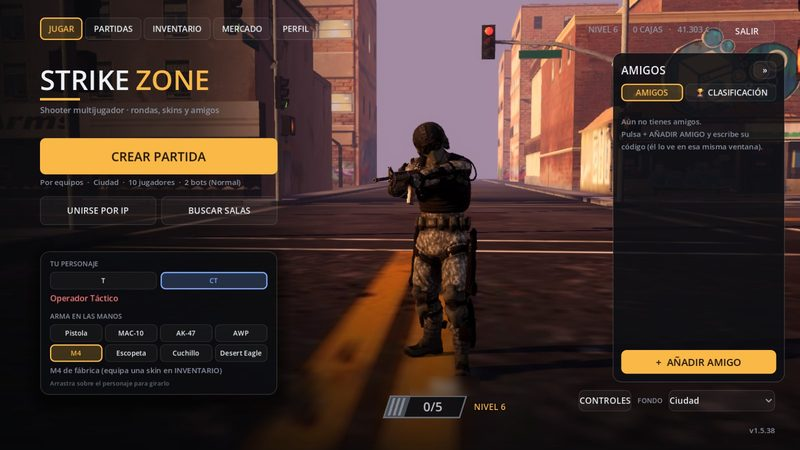
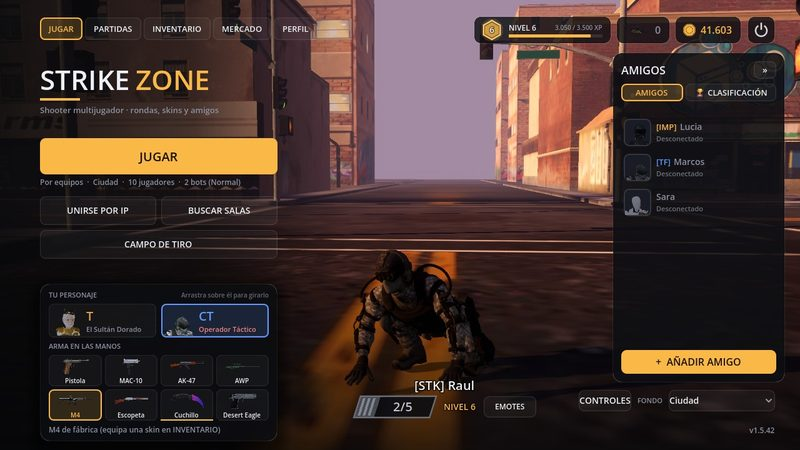
Actualizar página (v1.5.45)

diff --git a/index.html b/index.html
@@ -4,12 +4,12 @@
 <meta charset="utf-8">
 <meta name="viewport" content="width=device-width, initial-scale=1">
 <title>Strike Zone — Descarga</title>
-<meta name="description" content="Shooter multijugador gratis para Windows: 4 modos, 3 mapas, bots, skins, cajas y chat de voz. Juega con tus amigos por internet sin abrir puertos.">
+<meta name="description" content="Shooter multijugador gratis para Windows con modo Zombis: oleadas, jefes y logros. Modo Bomba, rangos, skins, clanes y bots. Juega con tus amigos por internet sin abrir puertos.">
 <meta name="theme-color" content="#0b0c0f">
 <!-- Tarjeta al compartir el enlace (WhatsApp, Discord, X...) -->
 <meta property="og:type" content="website">
 <meta property="og:title" content="Strike Zone — Descarga gratis">
-<meta property="og:description" content="Shooter multijugador para jugar con tus amigos: 4 modos, 3 mapas, bots, skins y cajas.">
+<meta property="og:description" content="Shooter multijugador y modo Zombis cooperativo para jugar con tus amigos: oleadas, jefes, skins, clanes y rangos.">
 <meta property="og:image" content="https://newzile.github.io/arena-fps/img/og.jpg">
 <meta property="og:url" content="https://newzile.github.io/arena-fps/">
 <meta name="twitter:card" content="summary_large_image">
@@ -177,6 +177,32 @@
   }
   .more:hover { border-color: rgba(250,184,71,0.35); }
   footer { text-align: center; color: var(--dim); font-size: 12px; margin-top: 36px; }
+  /* --- Modo Zombis --- */
+  :root { --blood: #e5483a; }
+  .zombies {
+    position: relative; overflow: hidden; border-color: rgba(229,72,58,0.45);
+    background: linear-gradient(180deg, rgba(40,10,8,0.2), rgba(21,23,29,1) 60%), url("img/apocalipsis.jpg") center / cover;
+    box-shadow: 0 20px 60px rgba(0,0,0,0.5), 0 0 0 1px rgba(229,72,58,0.1) inset;
+  }
+  .zombies .tag { display: inline-block; font: 700 12px Inter, sans-serif; letter-spacing: .16em; color: var(--blood); background: rgba(229,72,58,0.14); padding: 3px 10px; border-radius: 20px; }
+  .zombies h2 { font-size: clamp(34px, 7vw, 52px); margin: 10px 0 6px; line-height: 1; }
+  .zombies h2 span { color: var(--blood); }
+  .zombies .lead { color: #d5d8e0; max-width: 620px; margin: 0 0 18px; }
+  .zgrid { display: grid; grid-template-columns: 1.4fr 1fr; gap: 14px; align-items: stretch; }
+  .zgrid .shot { aspect-ratio: auto; min-height: 220px; }
+  .zlist { list-style: none; margin: 0; padding: 0; display: grid; gap: 10px; }
+  .zlist li { background: rgba(11,12,15,0.7); border: 1px solid var(--line); border-left: 3px solid var(--blood); border-radius: 10px; padding: 10px 14px; font-size: 14px; }
+  .zlist b { font-family: Rajdhani, sans-serif; font-size: 17px; letter-spacing: .03em; display: block; }
+  .zcast { display: grid; grid-template-columns: repeat(4, 1fr); gap: 10px; margin-top: 14px; }
+  .zcast .shot { aspect-ratio: 3 / 4; }
+  .zcast .shot span { font-size: 14px; padding: 18px 10px 8px; }
+  .egg { margin-top: 14px; font-size: 13px; color: #f5c25a; background: rgba(245,194,90,0.08); border: 1px dashed rgba(245,194,90,0.35); border-radius: 10px; padding: 10px 14px; }
+  .feature.z .ico { background: rgba(229,72,58,0.14); color: var(--blood); }
+  .feature.z:hover { border-color: rgba(229,72,58,0.45); }
+  @media (max-width: 720px) {
+    .zgrid { grid-template-columns: 1fr; }
+    .zcast { grid-template-columns: repeat(2, 1fr); }
+  }
 
   /* Aparecen suavemente al bajar */
   .reveal { opacity: 0; transform: translateY(18px); transition: opacity .6s ease, transform .6s ease; }
@@ -199,11 +225,11 @@
 </head>
 <body>
 <header class="top">
-  <div class="kicker">FPS MULTIJUGADOR · GRATIS · WINDOWS</div>
+  <div class="kicker">FPS MULTIJUGADOR · MODO ZOMBIS · GRATIS · WINDOWS</div>
   <h1>STRIKE <span>ZONE</span></h1>
-  <p>Partidas rápidas con tus amigos o contra bots: rifles, francotirador, cuchillos y un modo Bomba al estilo CS.</p>
+  <p>Dos juegos en uno: <b>Shooter</b> con modo Bomba al estilo CS, rangos y skins, y <b>Zombis</b>, oleadas y jefes para un jugador o con tus amigos.</p>
   <div class="chips">
-    <span class="chip">4 modos</span><span class="chip">3 mapas</span><span class="chip">Hasta 16 jugadores</span><span class="chip">Online sin abrir puertos</span>
+    <span class="chip">Shooter y Zombis</span><span class="chip">5 modos</span><span class="chip">5 mapas</span><span class="chip">Clanes</span><span class="chip">Hasta 16 jugadores</span><span class="chip">Online sin abrir puertos</span>
   </div>
 </header>
 
@@ -220,25 +246,83 @@
     <div class="small">Descomprime el .zip y abre <code>StrikeZone.exe</code>. El juego se actualiza solo al abrirlo.<br>¿Venías de <b>Arena FPS</b>? Es el mismo juego con otro nombre: conservas tu perfil y tus skins.</div>
   </section>
 
-  <div class="section-title reveal"><h2>Así se ve</h2><p>Capturas del juego</p></div>
+  <section class="card zombies reveal">
+    <span class="tag">NUEVO · MODO ZOMBIS</span>
+    <h2>SOBREVIVE A LA <span>HORDA</span></h2>
+    <p class="lead">Al abrir el juego eliges modalidad: <b>Shooter</b> o <b>Zombis</b>. En Zombis aguantáis oleadas cada vez más duras en el mapa <b>Apocalipsis</b>, tú solo o con tus amigos por internet.</p>
+    <div class="zgrid">
+      <button class="shot" data-full="img/jefe.jpg"><img src="img/jefe_s.jpg" alt="Pumpkinhulk, el jefe, llegando con otros zombis" loading="lazy"><span>El jefe: Pumpkinhulk</span></button>
+      <ul class="zlist">
+        <li><b>Oleadas sin fin</b>Zombis que andan, corren y se arrastran. Entre oleadas, 12 s para recargar y que vuelvan los caídos.</li>
+        <li><b>Jefe cada 5 oleadas</b>Pumpkinhulk: enorme, con su barra de vida. Cada vez sale uno más.</li>
+        <li><b>13 logros</b>Primera sangre, Intocable, Matagigantes, Inmortal… cada uno con premio en créditos.</li>
+        <li><b>Un jugador o cooperativo</b>Sin bots: solo tú, o tú y tus amigos contra la horda.</li>
+      </ul>
+    </div>
+    <div class="zcast">
+      <button class="shot" data-full="img/z_girl.jpg"><img src="img/z_girl_s.jpg" alt="Zombi: chica zombi" loading="lazy"><span>Zombie Girl</span></button>
+      <button class="shot" data-full="img/z_prisoner.jpg"><img src="img/z_prisoner_s.jpg" alt="Zombi: prisionero" loading="lazy"><span>Prisionero</span></button>
+      <button class="shot" data-full="img/z_yaku.jpg"><img src="img/z_yaku_s.jpg" alt="Zombi: Yaku corriendo" loading="lazy"><span>Yaku (corredor)</span></button>
+      <button class="shot" data-full="img/pumpkinhulk.jpg"><img src="img/pumpkinhulk_s.jpg" alt="El jefe Pumpkinhulk de cerca" loading="lazy"><span>Pumpkinhulk</span></button>
+    </div>
+    <div class="egg">🎃 Dicen que en el Apocalipsis hay algo dorado escondido… y que si lo encuentras todo, despierta un rey.</div>
+  </section>
+
+  <div class="section-title reveal"><h2>Así se ve</h2><p>Capturas del juego (haz clic para verlas en grande)</p></div>
   <div class="gallery reveal">
+    <button class="shot" data-full="img/zombis.jpg"><img src="img/zombis_s.jpg" alt="La horda de zombis llegando por la calle en el mapa Apocalipsis" loading="lazy"><span>Zombis · la horda</span></button>
+    <button class="shot" data-full="img/modalidad.jpg"><img src="img/modalidad_s.jpg" alt="Pantalla para elegir modalidad: Shooter o Zombis" loading="lazy"><span>Elige: Shooter o Zombis</span></button>
     <button class="shot" data-full="img/ciudad.jpg"><img src="img/ciudad_s.jpg" alt="Mapa Ciudad en modo Bomba, con una caja de munición" loading="lazy"><span>Ciudad · modo Bomba</span></button>
+    <button class="shot" data-full="img/jugar.jpg"><img src="img/jugar_s.jpg" alt="Ventana JUGAR al estilo CS:GO con tarjetas de mapa" loading="lazy"><span>Ventana JUGAR</span></button>
+    <button class="shot" data-full="img/menu.jpg"><img src="img/menu_s.jpg" alt="Menú principal con tu personaje, nivel, cajas y créditos" loading="lazy"><span>Menú · tu personaje</span></button>
+    <button class="shot" data-full="img/logros.jpg"><img src="img/logros_s.jpg" alt="Pantalla de logros del modo Zombis" loading="lazy"><span>Logros de Zombis</span></button>
+    <button class="shot" data-full="img/campo.jpg"><img src="img/campo_s.jpg" alt="Campo de tiro con el desafío de reflejos" loading="lazy"><span>Campo de tiro</span></button>
+    <button class="shot" data-full="img/clan.jpg"><img src="img/clan_s.jpg" alt="Pantalla del clan con miembros y clasificación de clanes" loading="lazy"><span>Clanes</span></button>
+    <button class="shot" data-full="img/podio.jpg"><img src="img/podio_s.jpg" alt="Podio del final de la partida con emotes" loading="lazy"><span>Podio y emotes</span></button>
     <button class="shot" data-full="img/desierto.jpg"><img src="img/desierto_s.jpg" alt="Mapa Desierto con un bot al fondo" loading="lazy"><span>Desierto</span></button>
-    <button class="shot" data-full="img/arena.jpg"><img src="img/arena_s.jpg" alt="Mapa Arena con varios bots" loading="lazy"><span>Arena</span></button>
-    <button class="shot" data-full="img/menu.jpg"><img src="img/menu_s.jpg" alt="Menú principal con el personaje y el panel de amigos" loading="lazy"><span>Menú · personajes y amigos</span></button>
   </div>
 
   <div class="section-title reveal"><h2>Qué trae</h2></div>
   <div class="features">
+    <div class="feature reveal z">
+      <div class="ico"><svg viewBox="0 0 24 24" fill="none" stroke="currentColor" stroke-width="2" stroke-linecap="round" stroke-linejoin="round" aria-hidden="true"><path d="M12 3a8 8 0 0 0-5 14.2V20h10v-2.8A8 8 0 0 0 12 3z"/><circle cx="9" cy="11" r="1.6"/><circle cx="15" cy="11" r="1.6"/><path d="M10 20v-2M14 20v-2"/></svg></div>
+      <h3>Modo Zombis</h3>
+      <p>Oleadas, corredores, reptantes y el jefe Pumpkinhulk. Para un jugador o cooperativo.</p>
+    </div>
+    <div class="feature reveal z">
+      <div class="ico"><svg viewBox="0 0 24 24" fill="none" stroke="currentColor" stroke-width="2" stroke-linecap="round" stroke-linejoin="round" aria-hidden="true"><path d="M8 21h8M12 17v4"/><path d="M7 4h10v5a5 5 0 0 1-10 0z"/><path d="M17 5h3v2a3 3 0 0 1-3 3M7 5H4v2a3 3 0 0 0 3 3"/></svg></div>
+      <h3>Logros y secreto</h3>
+      <p>13 logros de Zombis con premios, y un easter egg escondido en el mapa Apocalipsis.</p>
+    </div>
     <div class="feature reveal">
       <div class="ico"><svg viewBox="0 0 24 24" fill="none" stroke="currentColor" stroke-width="2" stroke-linecap="round" stroke-linejoin="round" aria-hidden="true"><circle cx="12" cy="12" r="8"/><path d="M12 2v4M12 18v4M2 12h4M18 12h4"/></svg></div>
-      <h3>4 modos de juego</h3>
-      <p>Todos contra todos, por equipos, solo cuchillos y Bomba: rondas, dinero y compras como en CS.</p>
+      <h3>5 modos de juego</h3>
+      <p>Todos contra todos, por equipos, solo cuchillos, Bomba (como en CS) y Zombis.</p>
     </div>
     <div class="feature reveal">
       <div class="ico"><svg viewBox="0 0 24 24" fill="none" stroke="currentColor" stroke-width="2" stroke-linecap="round" stroke-linejoin="round" aria-hidden="true"><path d="m3 7 6-3 6 3 6-3v13l-6 3-6-3-6 3z"/><path d="M9 4v13M15 7v13"/></svg></div>
-      <h3>3 mapas</h3>
-      <p>Desierto (inspirado en Dust II), Arena, pequeño y rápido, y Ciudad, con calles y tiendas.</p>
+      <h3>5 mapas</h3>
+      <p>Desierto (inspirado en Dust II), Arena, Ciudad, el Campo de tiro y Apocalipsis para los zombis.</p>
+    </div>
+    <div class="feature reveal">
+      <div class="ico"><svg viewBox="0 0 24 24" fill="none" stroke="currentColor" stroke-width="2" stroke-linecap="round" stroke-linejoin="round" aria-hidden="true"><rect x="5" y="8" width="14" height="11" rx="3"/><path d="M12 8V5M9 13h.01M15 13h.01M9.5 16h5"/><circle cx="12" cy="4" r="1"/></svg></div>
+      <h3>Bots listos</h3>
+      <p>Ven solo lo que tienen delante, oyen tus pasos, te buscan, se cubren y avisan a su equipo.</p>
+    </div>
+    <div class="feature reveal">
+      <div class="ico"><svg viewBox="0 0 24 24" fill="none" stroke="currentColor" stroke-width="2" stroke-linecap="round" stroke-linejoin="round" aria-hidden="true"><circle cx="12" cy="12" r="3"/><circle cx="12" cy="12" r="8"/><path d="M12 1v3M12 20v3M1 12h3M20 12h3"/></svg></div>
+      <h3>Campo de tiro</h3>
+      <p>Maniquíes, blancos móviles, placas para el sniper y un desafío de reflejos con récord.</p>
+    </div>
+    <div class="feature reveal">
+      <div class="ico"><svg viewBox="0 0 24 24" fill="none" stroke="currentColor" stroke-width="2" stroke-linecap="round" stroke-linejoin="round" aria-hidden="true"><path d="M12 3 4 6v6c0 5 3.5 8 8 9 4.5-1 8-4 8-9V6z"/><path d="M9 12h6M12 9v6"/></svg></div>
+      <h3>Clanes</h3>
+      <p>Crea tu clan con etiqueta y color, sumad puntos jugando y subid en la clasificación.</p>
+    </div>
+    <div class="feature reveal">
+      <div class="ico"><svg viewBox="0 0 24 24" fill="none" stroke="currentColor" stroke-width="2" stroke-linecap="round" stroke-linejoin="round" aria-hidden="true"><rect x="3" y="5" width="18" height="14" rx="2"/><circle cx="8.5" cy="11" r="2"/><path d="M5.5 16a3 3 0 0 1 6 0M14 10h4M14 13h4"/></svg></div>
+      <h3>Tarjetas y emotes</h3>
+      <p>Pasa el ratón por un nombre para ver su tarjeta. Saluda, baila o celebra en el podio.</p>
     </div>
     <div class="feature reveal">
       <div class="ico"><svg viewBox="0 0 24 24" fill="none" stroke="currentColor" stroke-width="2" stroke-linecap="round" stroke-linejoin="round" aria-hidden="true"><path d="M20 12V8H6a2 2 0 0 1 0-4h12v4"/><path d="M4 6v12a2 2 0 0 0 2 2h14v-4"/><path d="M18 12a2 2 0 0 0 0 4h4v-4z"/></svg></div>
@@ -248,12 +332,7 @@
     <div class="feature reveal">
       <div class="ico"><svg viewBox="0 0 24 24" fill="none" stroke="currentColor" stroke-width="2" stroke-linecap="round" stroke-linejoin="round" aria-hidden="true"><circle cx="9" cy="8" r="3.5"/><path d="M2.5 20a6.5 6.5 0 0 1 13 0"/><circle cx="17.5" cy="9" r="2.5"/><path d="M16 14.2A5 5 0 0 1 22 19"/></svg></div>
       <h3>Online con amigos</h3>
-      <p>Añade a tus amigos con su código y entrad juntos por internet, sin abrir puertos ni VPN.</p>
-    </div>
-    <div class="feature reveal">
-      <div class="ico"><svg viewBox="0 0 24 24" fill="none" stroke="currentColor" stroke-width="2" stroke-linecap="round" stroke-linejoin="round" aria-hidden="true"><rect x="5" y="8" width="14" height="11" rx="3"/><path d="M12 8V5M9 13h.01M15 13h.01M9.5 16h5"/><circle cx="12" cy="4" r="1"/></svg></div>
-      <h3>Bots</h3>
-      <p>Rellena la partida con bots en fácil, normal o difícil. También plantan y desactivan la bomba.</p>
+      <p>Añádelos con su código y entrad juntos sin abrir puertos. Invítalos desde la propia partida.</p>
     </div>
     <div class="feature reveal">
       <div class="ico"><svg viewBox="0 0 24 24" fill="none" stroke="currentColor" stroke-width="2" stroke-linecap="round" stroke-linejoin="round" aria-hidden="true"><rect x="9" y="3" width="6" height="11" rx="3"/><path d="M5 11a7 7 0 0 0 14 0M12 18v3"/></svg></div>
@@ -261,14 +340,9 @@
       <p>Pulsa para hablar con tu equipo, o escribe a todos o solo a los tuyos.</p>
     </div>
     <div class="feature reveal">
-      <div class="ico"><svg viewBox="0 0 24 24" fill="none" stroke="currentColor" stroke-width="2" stroke-linecap="round" stroke-linejoin="round" aria-hidden="true"><path d="M3 17h13l3-4h2"/><path d="M6 17v3M13 17v3"/><rect x="3" y="4" width="8" height="6" rx="1"/><path d="M5 7h4"/></svg></div>
-      <h3>Armas y munición</h3>
-      <p>Munición limitada, cajas de balas por el mapa y armas que se caen al morir, con su skin.</p>
-    </div>
-    <div class="feature reveal">
       <div class="ico"><svg viewBox="0 0 24 24" fill="none" stroke="currentColor" stroke-width="2" stroke-linecap="round" stroke-linejoin="round" aria-hidden="true"><path d="M8 21h8M12 17v4"/><path d="M7 4h10v5a5 5 0 0 1-10 0z"/><path d="M17 5h3v2a3 3 0 0 1-3 3M7 5H4v2a3 3 0 0 0 3 3"/></svg></div>
       <h3>Rangos y medallas</h3>
-      <p>Sube de nivel, gana rango y consigue medallas por rachas, headshots o no-scopes.</p>
+      <p>Sube de nivel, gana rango competitivo y consigue medallas por rachas, headshots o no-scopes.</p>
     </div>
   </div>
 
@@ -283,11 +357,11 @@
       <h3 class="sub">Por internet (lo más fácil)</h3>
       <ol class="steps">
         <li>En el menú, abre <b>AMIGOS</b> y pulsa <b>+ AÑADIR AMIGO</b> con el código de tu amigo (cada uno ve el suyo en esa ventana).</li>
-        <li>Uno pulsa <b>CREAR PARTIDA</b> y elige <b>ONLINE (AMIGOS)</b>.</li>
-        <li>Los demás le buscan en su lista de <b>AMIGOS</b> y pulsan <b>UNIRSE</b>.</li>
+        <li>Uno pulsa <b>JUGAR</b>, pestaña <b>ONLINE · AMIGOS</b>, elige modo (también <b>ZOMBIS</b>) y pulsa <b>¡A JUGAR!</b></li>
+        <li>Los demás le buscan en su lista de <b>AMIGOS</b> y pulsan <b>UNIRSE</b>. También puede invitarles desde la partida: <b>Esc → AMIGOS → INVITAR</b>.</li>
       </ol>
       <h3 class="sub">En la misma casa o red</h3>
-      <p class="small" style="margin-top:0">Uno crea la partida en <b>RED LOCAL / IP</b> y los demás pulsan <b>BUSCAR SALAS</b>. Si no aparece, usad <b>UNIRSE POR IP</b> con la IP que sale en la sala.</p>
+      <p class="small" style="margin-top:0">Uno crea la partida en <b>JUGAR → RED LOCAL</b> y los demás pulsan <b>BUSCAR SALAS</b>. Si no aparece, usad <b>UNIRSE POR IP</b> con la IP que sale en la sala.</p>
       <p class="small">Si Windows avisa de que “protegió su PC”: <b>Más información → Ejecutar de todas formas</b>, y permite el acceso en el firewall.</p>
     </section>
     <section class="card reveal">
@@ -308,6 +382,7 @@
         <kbd>V</kbd><span>Hablar por voz</span>
         <kbd>Y / U</kbd><span>Chat a todos / de equipo</span>
         <kbd>Tab</kbd><span>Marcador</span>
+        <kbd>1 – 7</kbd><span>Emotes (al final de la partida)</span>
         <kbd>Esc</kbd><span>Pausa</span>
       </div>
       <p class="small">Todas se pueden cambiar en <b>CONTROLES</b>.</p>
@@ -320,7 +395,7 @@
     <button class="more" id="more" hidden></button>
   </section>
 
-  <footer>Hecho con Godot 4 · Modelos de Quaternius, Poly Haven, styloo y artistas de Sketchfab</footer>
+  <footer>Hecho con Godot 4 · Modelos de Quaternius, Poly Haven, styloo, Mixamo y artistas de Sketchfab · Sonidos de zombis de dragon-studio (Pixabay)</footer>
 </div>
 
 <div class="lightbox" id="lightbox" role="dialog" aria-label="Captura ampliada"><img alt=""></div>
